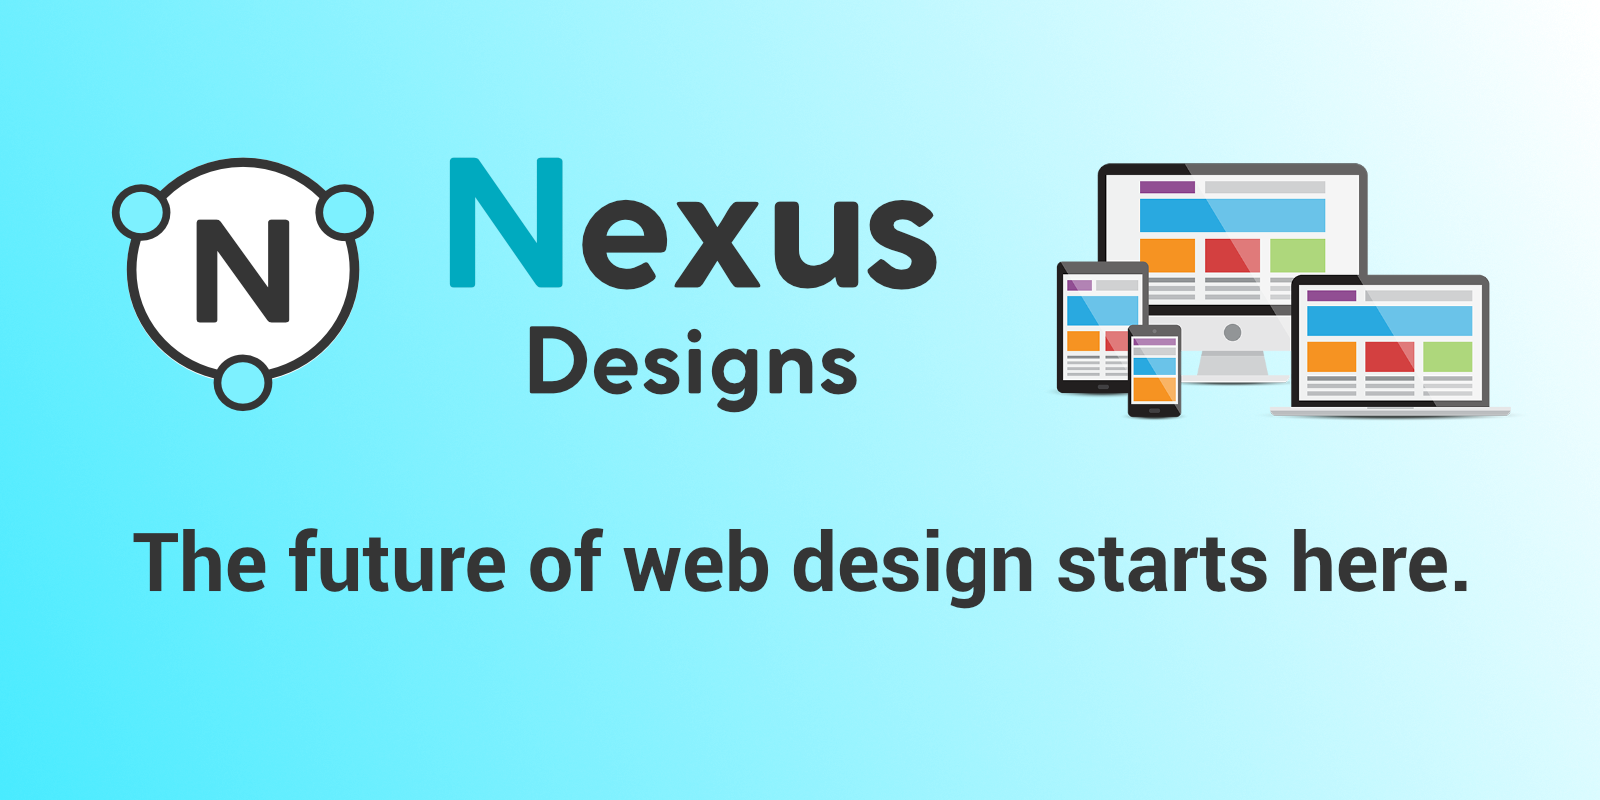
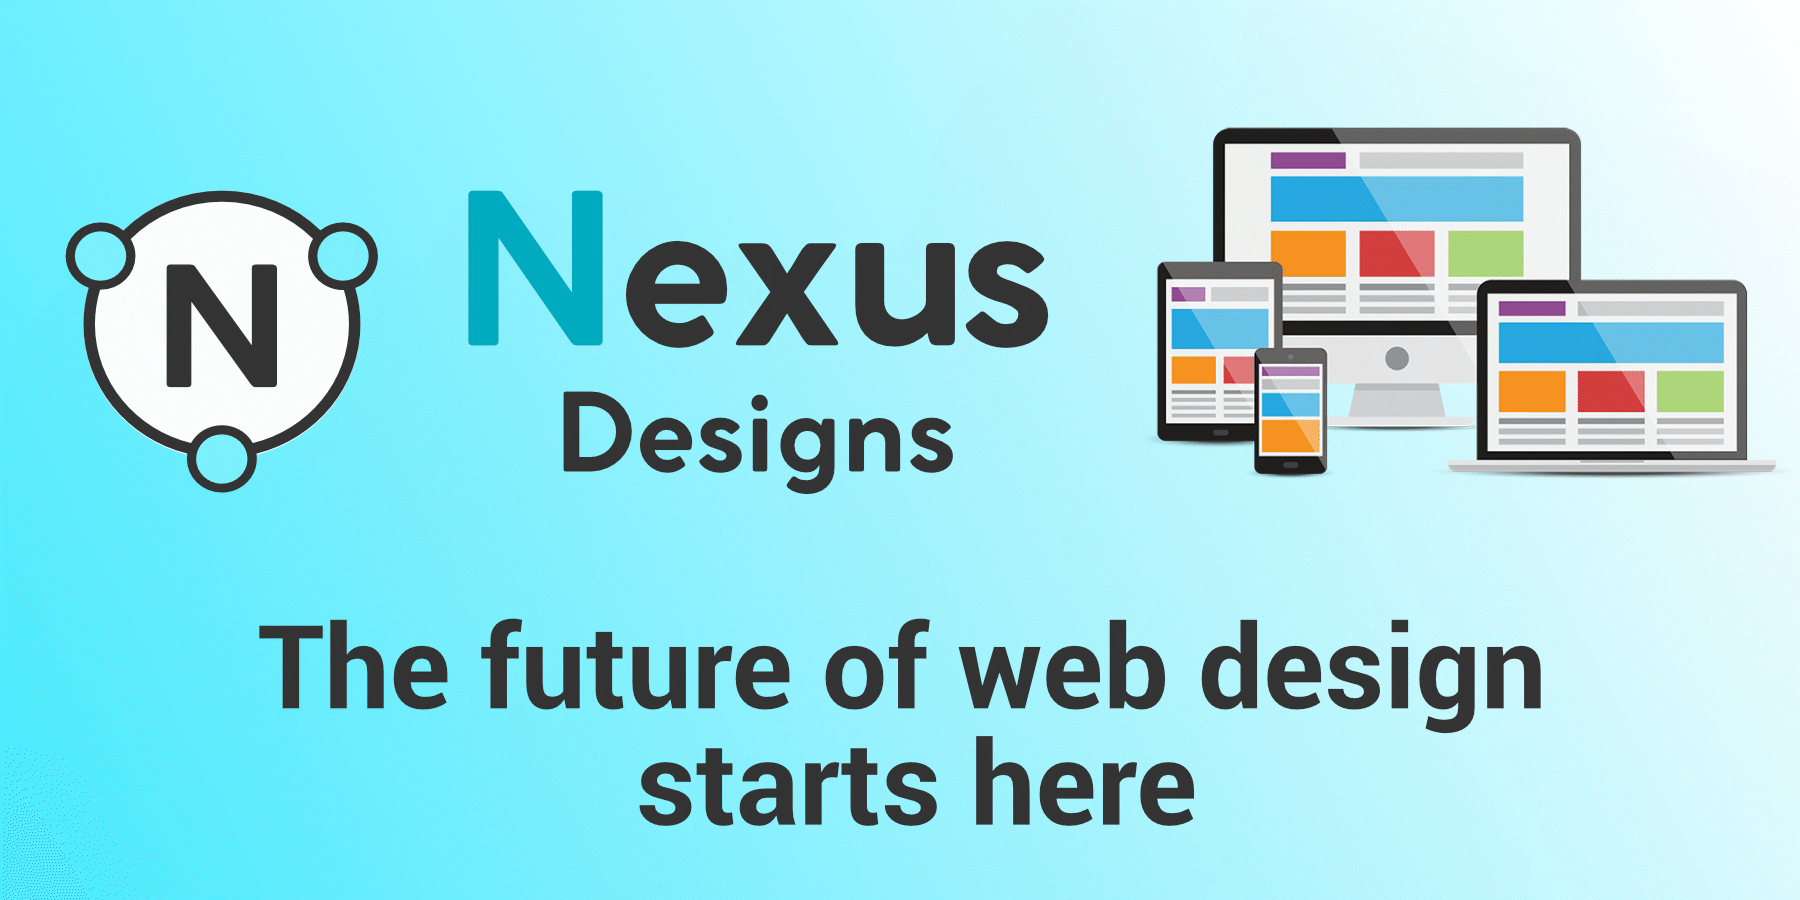
made changes to layout

Changed region(s): [[0.0312, 0.1875, 0.5938, 0.5625], [0.0625, 0.6562, 0.9062, 0.9375], [0.625, 0.125, 1.0, 0.5312]]

diff --git a/public/css/base.css b/public/css/base.css
@@ -1,5 +1,5 @@
 body {
-  background-color: rgb(202, 202, 202);
+  background-color: rgb(255, 255, 255);
   margin: 0;
   padding: 0;
   font-family: roboto;

diff --git a/public/css/main.css b/public/css/main.css
@@ -11,4 +11,5 @@
 }
 .hero {
   width: 100%;
+  height: auto;
 }
